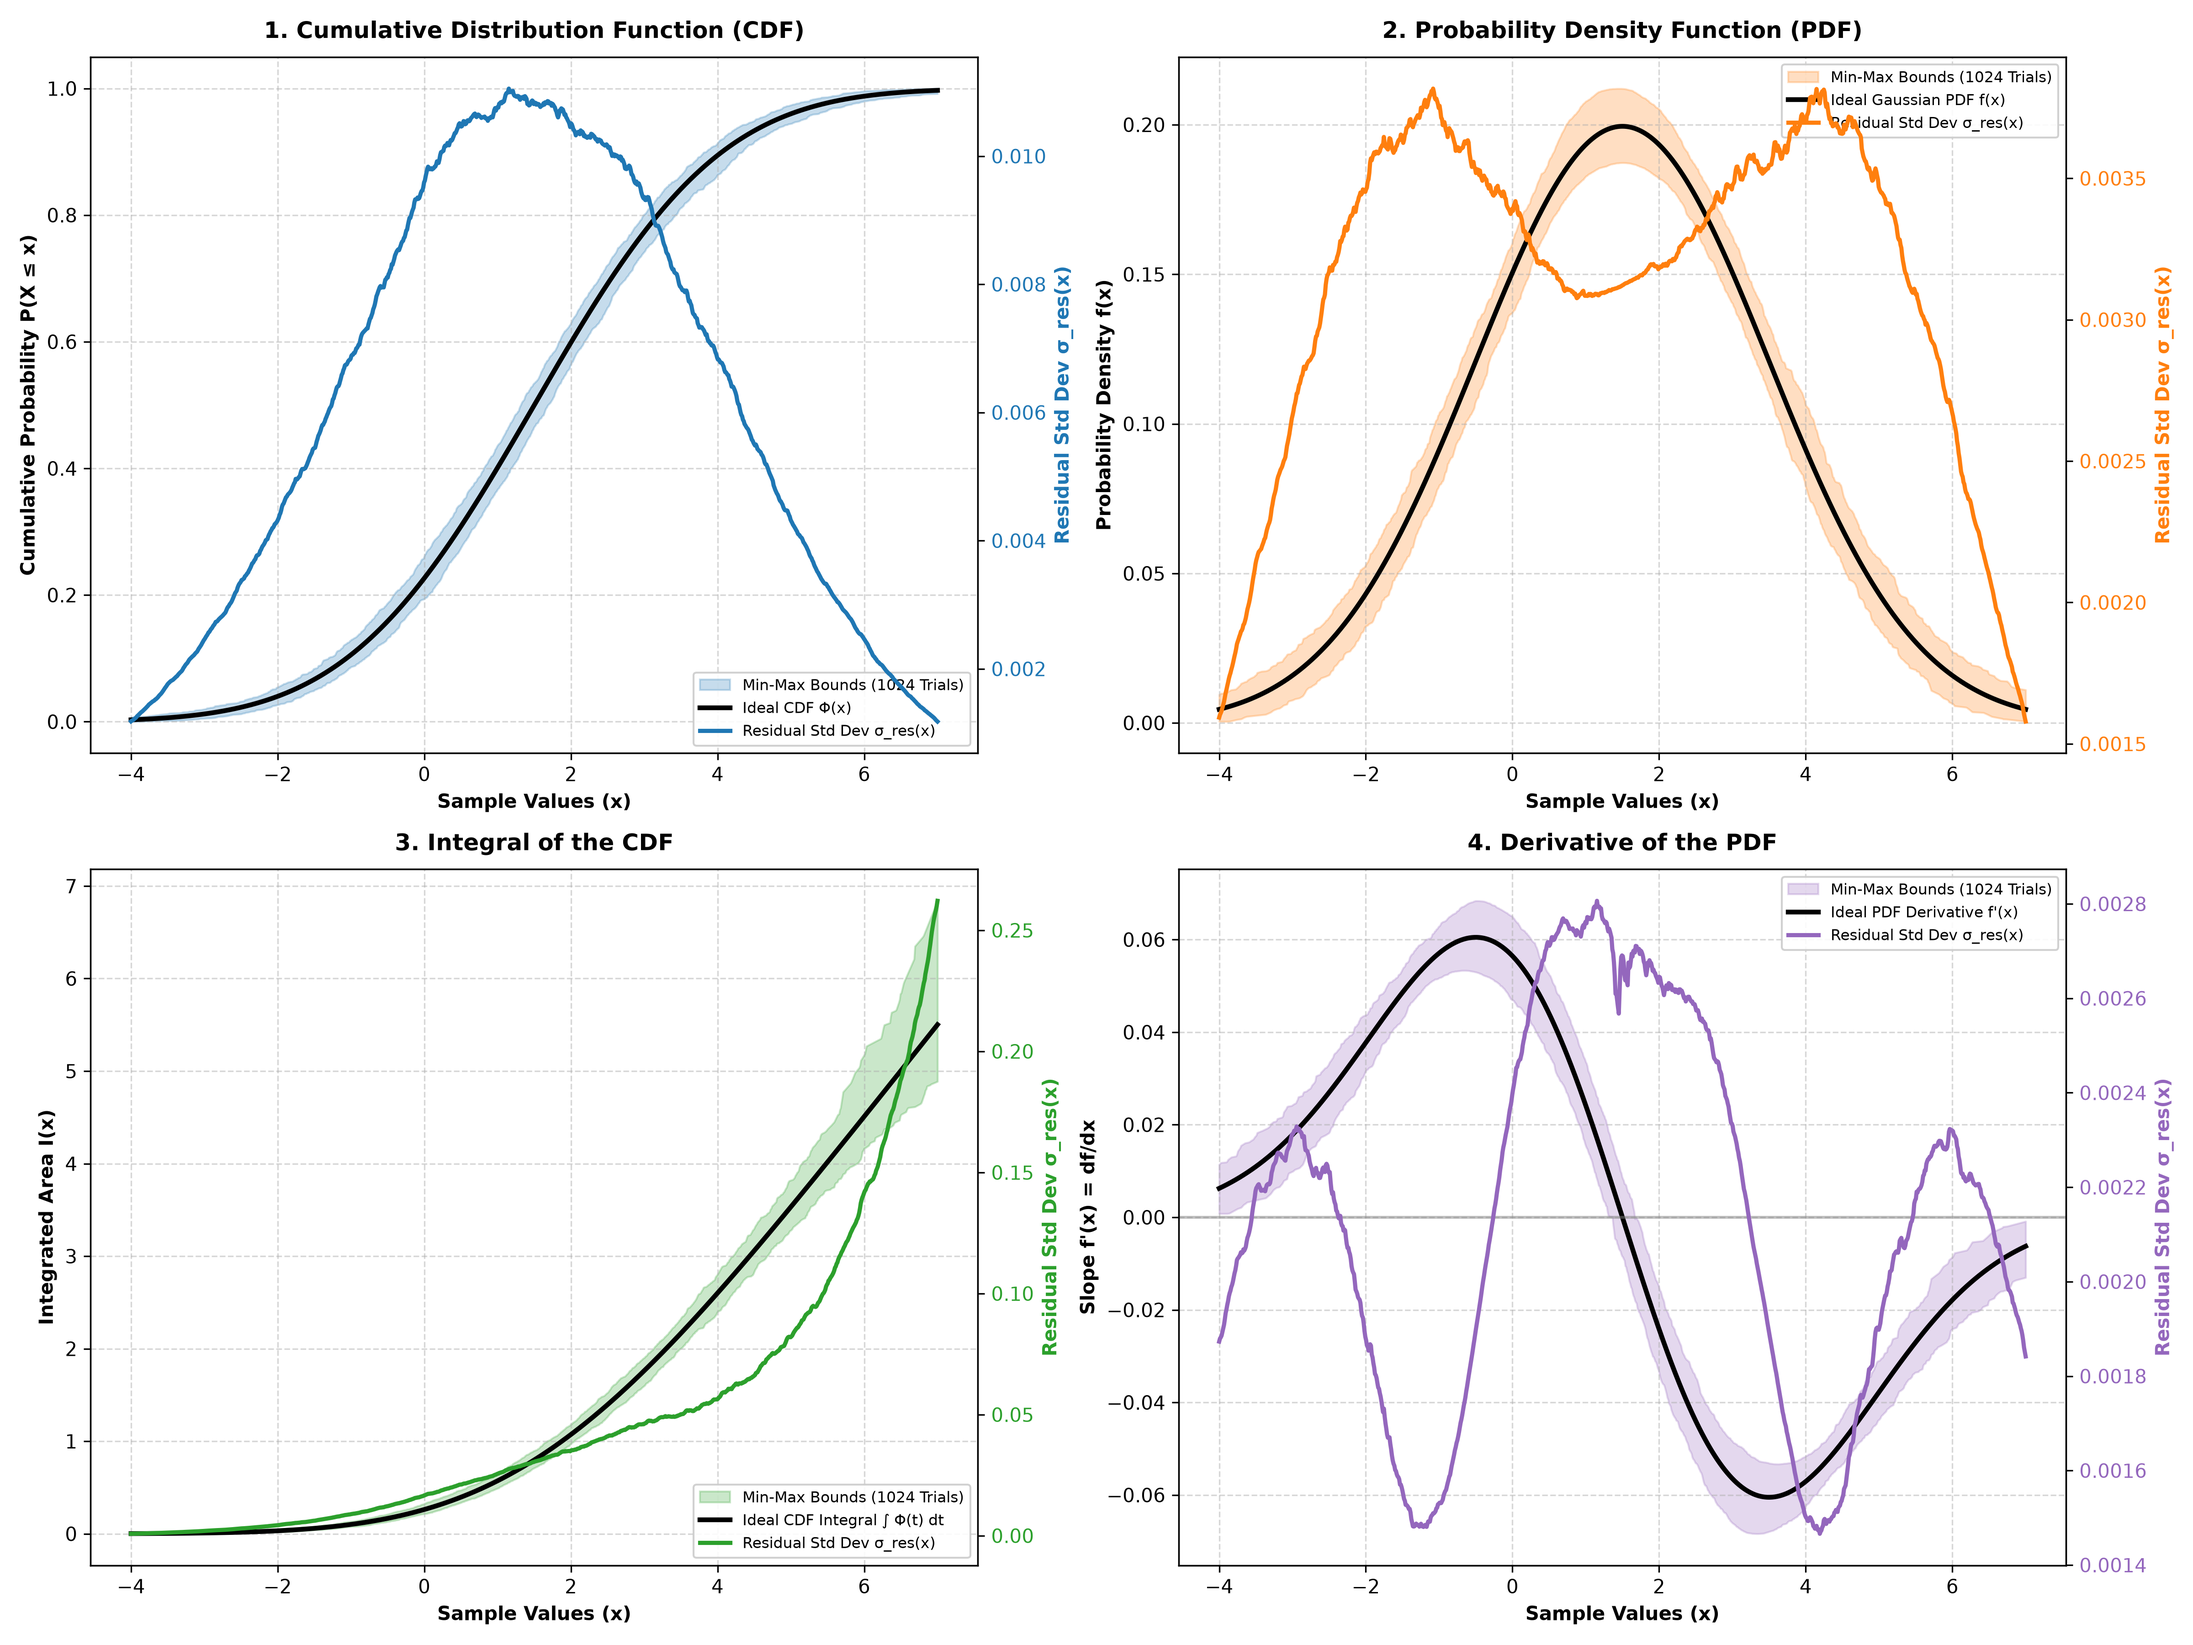
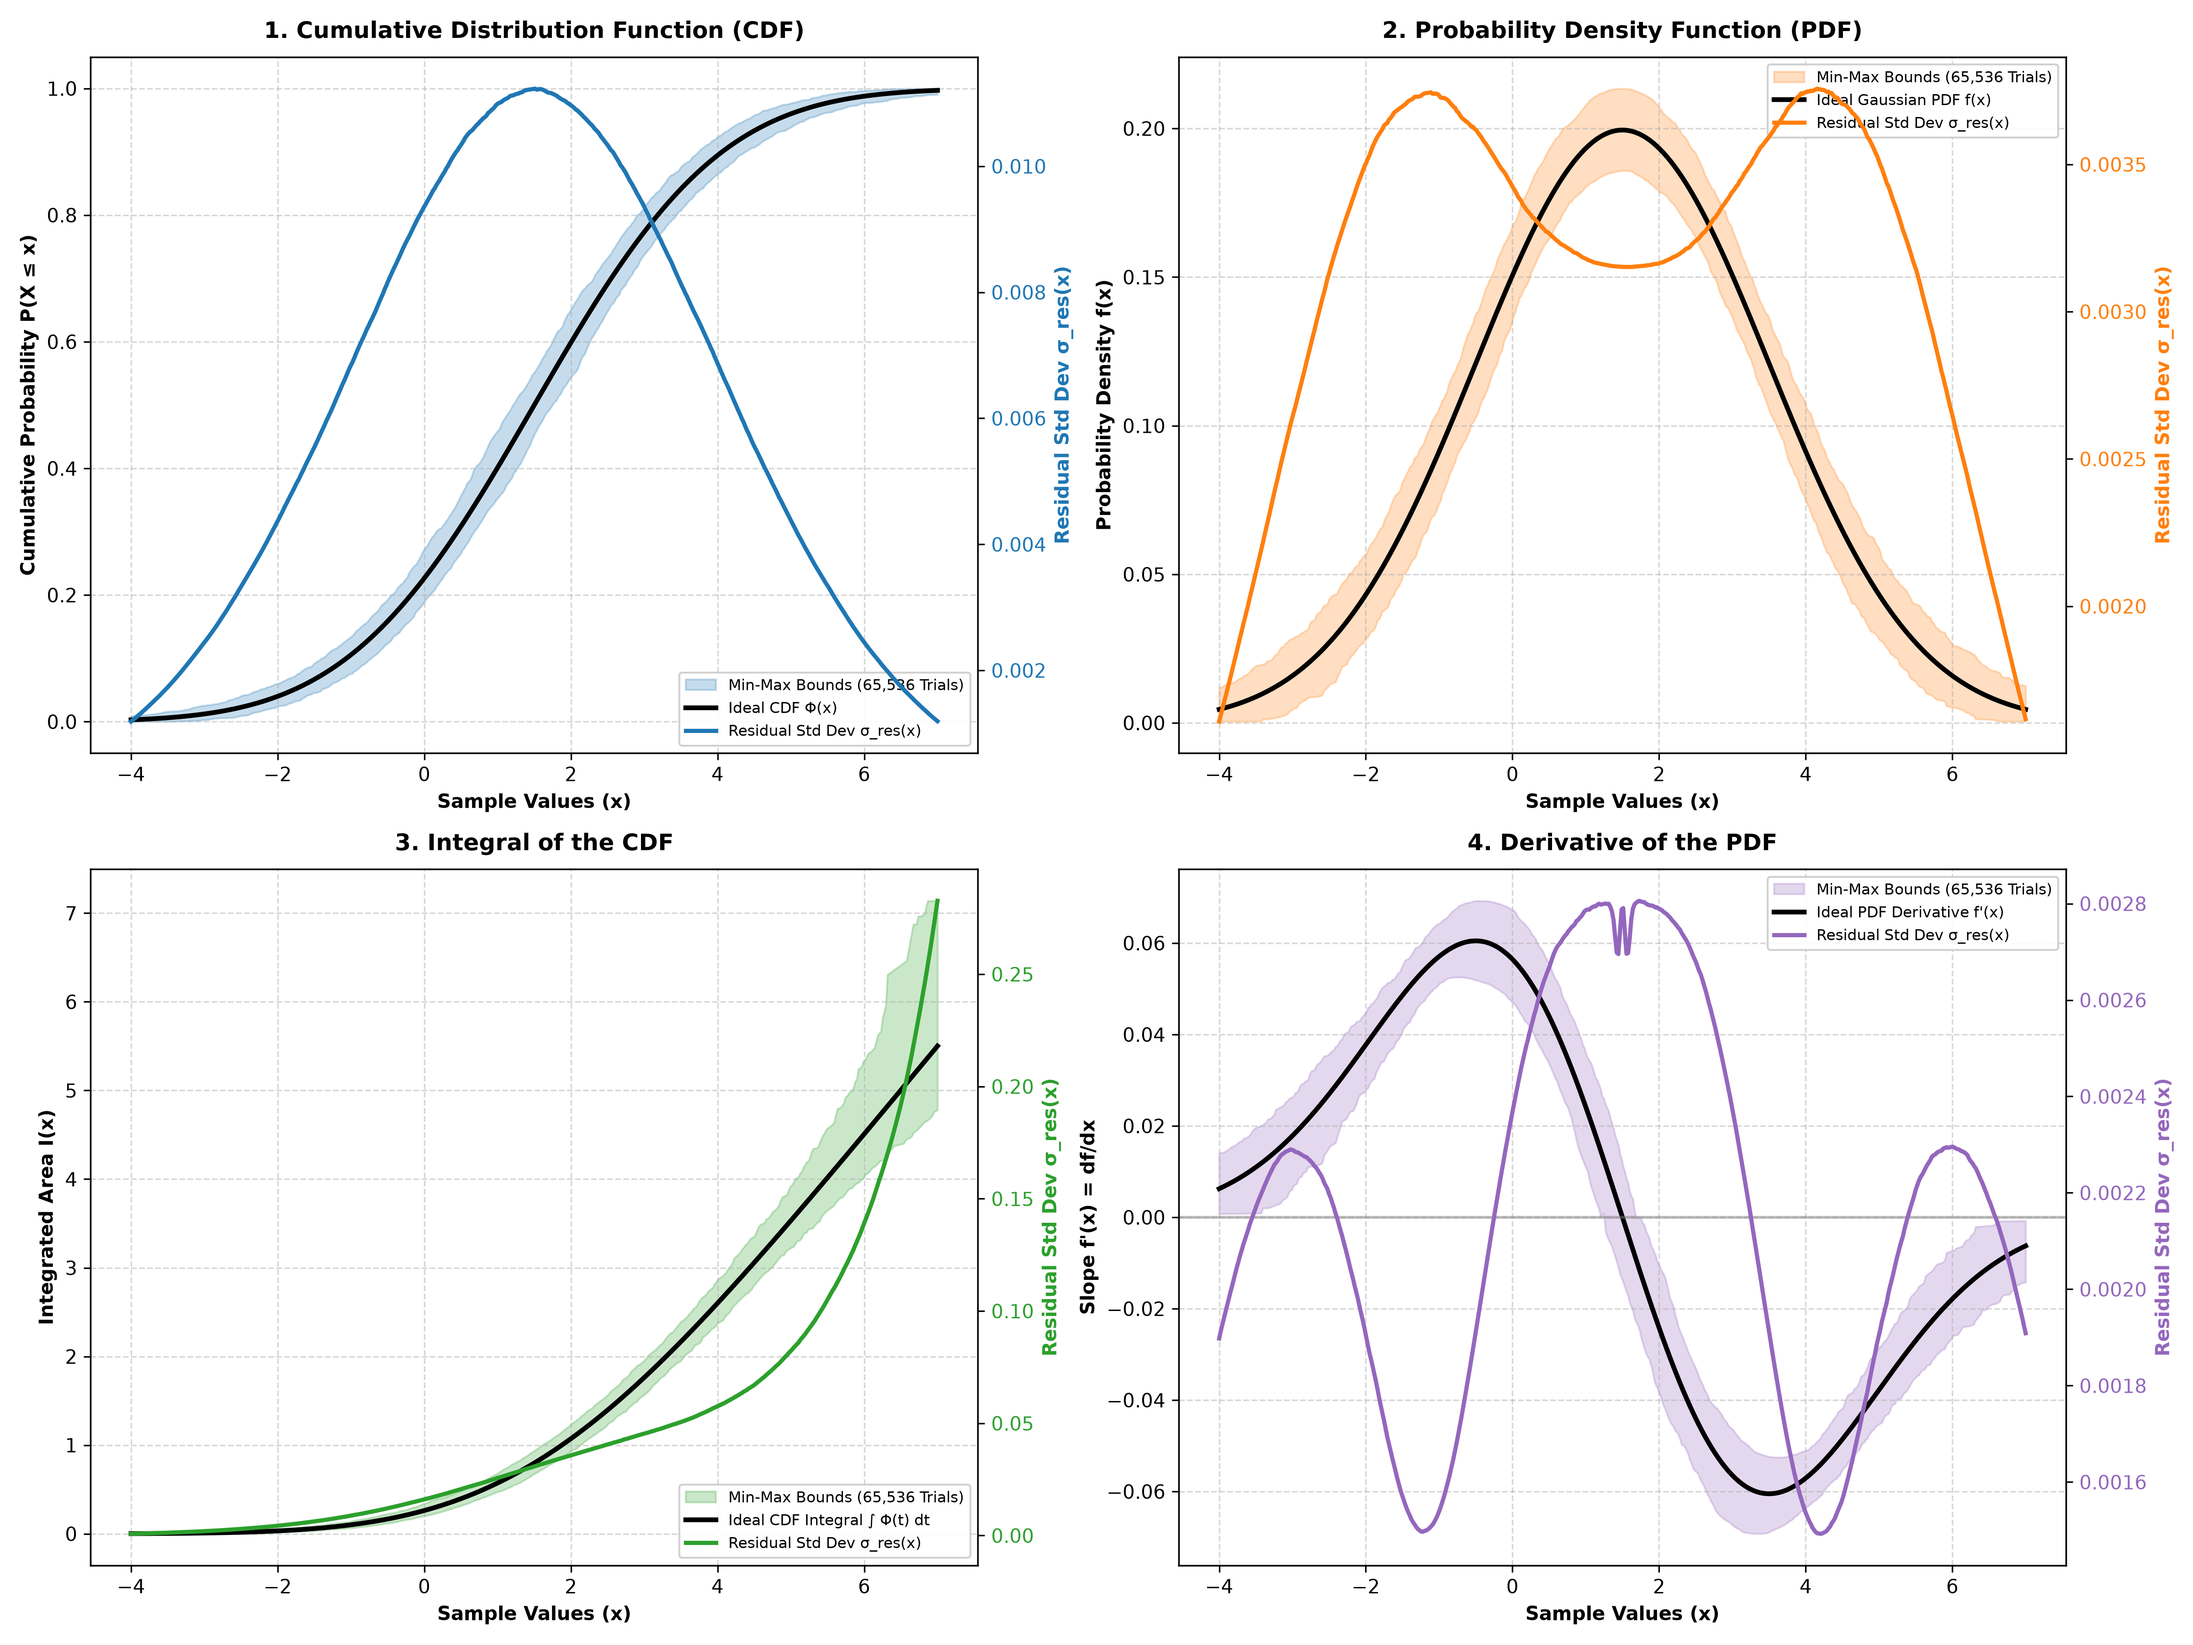
Refactor README and run script: update trial count to 65,536 for enhanced statistical convergence, improve documentation clarity, and optimize plotting for CDF, PDF, and their derivatives.

diff --git a/experiments/density_estimation/run.py b/experiments/density_estimation/run.py
@@ -1,4 +1,5 @@
 import os
+import time
 import torch
 import numpy as np
 import scipy.stats as stats
@@ -27,61 +28,99 @@ def cdf_to_integral_algebraic(y_cdf, f_pdf, sigma):
     cdf_integral = (sigma * np.sqrt(2.0) * z) * y_cdf + (sigma ** 2) * f_pdf
     return cdf_integral
 
-def generate_samples(num_samples=2000, mean=1.5, std=2.0, seed=42):
-    np.random.seed(seed)
-    samples = np.random.normal(loc=mean, scale=std, size=num_samples)
-    return np.sort(samples)
-
 def main():
     script_dir = os.path.dirname(os.path.abspath(__file__))
     output_plot_path = os.path.join(script_dir, "plot.png")
     
     N = 2000
-    M = 1024  # 1024 independent random sample trials
+    M = 65536  # 2^16 = 65,536 independent random sample trials
     true_mean, true_std = 1.5, 2.0
     
-    x_grid = np.linspace(-4.0, 7.0, 1000)
+    x_grid = np.linspace(-4.0, 7.0, 500)
+    num_grid = len(x_grid)
     
     cdf_ideal = stats.norm.cdf(x_grid, loc=true_mean, scale=true_std)
     pdf_ideal = stats.norm.pdf(x_grid, loc=true_mean, scale=true_std)
     pdf_deriv_ideal = -((x_grid - true_mean) / (true_std ** 2)) * pdf_ideal
     cdf_int_ideal = (x_grid - true_mean) * cdf_ideal + (true_std ** 2) * pdf_ideal
     
-    cdf_trials = np.zeros((M, 1000))
-    pdf_trials = np.zeros((M, 1000))
-    pdf_deriv_trials = np.zeros((M, 1000))
-    cdf_int_trials = np.zeros((M, 1000))
+    # Online accumulators for 65,536 trials
+    min_cdf, max_cdf = np.full(num_grid, 1e9), np.full(num_grid, -1e9)
+    min_pdf, max_pdf = np.full(num_grid, 1e9), np.full(num_grid, -1e9)
+    min_int, max_int = np.full(num_grid, 1e9), np.full(num_grid, -1e9)
+    min_deriv, max_deriv = np.full(num_grid, 1e9), np.full(num_grid, -1e9)
     
-    print(f"Running M={M} independent trials (N={N} samples each)...")
+    sum_cdf, sum_sq_cdf = np.zeros(num_grid), np.zeros(num_grid)
+    sum_pdf, sum_sq_pdf = np.zeros(num_grid), np.zeros(num_grid)
+    sum_int, sum_sq_int = np.zeros(num_grid), np.zeros(num_grid)
+    sum_deriv, sum_sq_deriv = np.zeros(num_grid), np.zeros(num_grid)
     
-    for m in range(M):
-        seed = 10000 + m
-        x_samples = generate_samples(num_samples=N, mean=true_mean, std=true_std, seed=seed)
+    y_empirical_cdf = (np.arange(1, N + 1) - 0.5) / N
+    
+    print(f"Running M={M} (2^16 = 65,536) trials ({M * N:,} total sample points)...")
+    t0 = time.time()
+    
+    chunk_size = 2048
+    num_chunks = M // chunk_size
+    
+    for c in range(num_chunks):
+        np.random.seed(4242 + c)
+        samples_chunk = np.sort(np.random.normal(true_mean, true_std, size=(chunk_size, N)), axis=1)
         
-        sample_mean = np.mean(x_samples)
-        sample_std = np.std(x_samples, ddof=1)
-        
-        y_empirical_cdf = (np.arange(1, N + 1) - 0.5) / N
-        pdf_algebraic_sample = cdf_to_pdf_algebraic(y_empirical_cdf, sigma=sample_std)
-        pdf_deriv_sample = pdf_to_derivative_algebraic(pdf_algebraic_sample, x_samples, mean=sample_mean, sigma=sample_std)
-        cdf_int_sample = cdf_to_integral_algebraic(y_empirical_cdf, pdf_algebraic_sample, sigma=sample_std)
-        
-        cdf_trials[m] = np.interp(x_grid, x_samples, y_empirical_cdf)
-        pdf_trials[m] = np.interp(x_grid, x_samples, pdf_algebraic_sample)
-        pdf_deriv_trials[m] = np.interp(x_grid, x_samples, pdf_deriv_sample)
-        cdf_int_trials[m] = np.interp(x_grid, x_samples, cdf_int_sample)
+        for i in range(chunk_size):
+            x_samples = samples_chunk[i]
+            sample_mean = np.mean(x_samples)
+            sample_std = np.std(x_samples, ddof=1)
+            
+            pdf_sample = cdf_to_pdf_algebraic(y_empirical_cdf, sigma=sample_std)
+            pdf_deriv_sample = pdf_to_derivative_algebraic(pdf_sample, x_samples, mean=sample_mean, sigma=sample_std)
+            cdf_int_sample = cdf_to_integral_algebraic(y_empirical_cdf, pdf_sample, sigma=sample_std)
+            
+            # Interpolate onto x_grid
+            c_interp = np.interp(x_grid, x_samples, y_empirical_cdf)
+            p_interp = np.interp(x_grid, x_samples, pdf_sample)
+            d_interp = np.interp(x_grid, x_samples, pdf_deriv_sample)
+            i_interp = np.interp(x_grid, x_samples, cdf_int_sample)
+            
+            # Min / Max bounds
+            min_cdf = np.minimum(min_cdf, c_interp)
+            max_cdf = np.maximum(max_cdf, c_interp)
+            
+            min_pdf = np.minimum(min_pdf, p_interp)
+            max_pdf = np.maximum(max_pdf, p_interp)
+            
+            min_deriv = np.minimum(min_deriv, d_interp)
+            max_deriv = np.maximum(max_deriv, d_interp)
+            
+            min_int = np.minimum(min_int, i_interp)
+            max_int = np.maximum(max_int, i_interp)
+            
+            # Residual accumulators (sample - ideal)
+            r_c = c_interp - cdf_ideal
+            r_p = p_interp - pdf_ideal
+            r_d = d_interp - pdf_deriv_ideal
+            r_i = i_interp - cdf_int_ideal
+            
+            sum_cdf += r_c
+            sum_sq_cdf += r_c ** 2
+            
+            sum_pdf += r_p
+            sum_sq_pdf += r_p ** 2
+            
+            sum_deriv += r_d
+            sum_sq_deriv += r_d ** 2
+            
+            sum_int += r_i
+            sum_sq_int += r_i ** 2
 
-    # Min / Max Shaded Bounds across 1024 trials
-    min_cdf, max_cdf = np.min(cdf_trials, axis=0), np.max(cdf_trials, axis=0)
-    min_pdf, max_pdf = np.min(pdf_trials, axis=0), np.max(pdf_trials, axis=0)
-    min_int, max_int = np.min(cdf_int_trials, axis=0), np.max(cdf_int_trials, axis=0)
-    min_deriv, max_deriv = np.min(pdf_deriv_trials, axis=0), np.max(pdf_deriv_trials, axis=0)
-
-    # Residual Standard Deviations across 1024 trials
-    std_res_cdf = np.std(cdf_trials - cdf_ideal, axis=0)
-    std_res_pdf = np.std(pdf_trials - pdf_ideal, axis=0)
-    std_res_cdf_int = np.std(cdf_int_trials - cdf_int_ideal, axis=0)
-    std_res_pdf_deriv = np.std(pdf_deriv_trials - pdf_deriv_ideal, axis=0)
+    # Compute Residual Standard Deviations across 65,536 trials
+    std_res_cdf = np.sqrt(np.maximum(0.0, (sum_sq_cdf / M) - (sum_cdf / M) ** 2))
+    std_res_pdf = np.sqrt(np.maximum(0.0, (sum_sq_pdf / M) - (sum_pdf / M) ** 2))
+    std_res_pdf_deriv = np.sqrt(np.maximum(0.0, (sum_sq_deriv / M) - (sum_deriv / M) ** 2))
+    std_res_cdf_int = np.sqrt(np.maximum(0.0, (sum_sq_int / M) - (sum_int / M) ** 2))
+    
+    t1 = time.time()
+    print(f"Completed 65,536 trials in {t1 - t0:.2f} seconds!")
     
     fig, axes = plt.subplots(2, 2, figsize=(16, 12), dpi=300)
     
@@ -95,7 +134,7 @@ def main():
     # PANE 1 (Top-Left): CDF (Blue Palette + Shaded Min-Max Band)
     # -------------------------------------------------------------
     ax1 = axes[0, 0]
-    ax1.fill_between(x_grid, min_cdf, max_cdf, color=color_cdf, alpha=0.25, label='Min-Max Bounds (1024 Trials)')
+    ax1.fill_between(x_grid, min_cdf, max_cdf, color=color_cdf, alpha=0.25, label='Min-Max Bounds (65,536 Trials)')
     ax1.plot(x_grid, cdf_ideal, color='black', linewidth=2.5, label='Ideal CDF Φ(x)')
     
     ax1.set_xlabel('Sample Values (x)', fontsize=10, fontweight='bold')
@@ -116,7 +155,7 @@ def main():
     # PANE 2 (Top-Right): PDF (Orange Palette + Shaded Min-Max Band)
     # -------------------------------------------------------------
     ax2 = axes[0, 1]
-    ax2.fill_between(x_grid, min_pdf, max_pdf, color=color_pdf, alpha=0.25, label='Min-Max Bounds (1024 Trials)')
+    ax2.fill_between(x_grid, min_pdf, max_pdf, color=color_pdf, alpha=0.25, label='Min-Max Bounds (65,536 Trials)')
     ax2.plot(x_grid, pdf_ideal, color='black', linewidth=2.5, label='Ideal Gaussian PDF f(x)')
     
     ax2.set_xlabel('Sample Values (x)', fontsize=10, fontweight='bold')
@@ -137,7 +176,7 @@ def main():
     # PANE 3 (Bottom-Left): CDF Integral (Green Palette + Shaded Min-Max Band)
     # -------------------------------------------------------------
     ax3 = axes[1, 0]
-    ax3.fill_between(x_grid, min_int, max_int, color=color_int, alpha=0.25, label='Min-Max Bounds (1024 Trials)')
+    ax3.fill_between(x_grid, min_int, max_int, color=color_int, alpha=0.25, label='Min-Max Bounds (65,536 Trials)')
     ax3.plot(x_grid, cdf_int_ideal, color='black', linewidth=2.5, label='Ideal CDF Integral ∫ Φ(t) dt')
     
     ax3.set_xlabel('Sample Values (x)', fontsize=10, fontweight='bold')
@@ -158,7 +197,7 @@ def main():
     # PANE 4 (Bottom-Right): PDF Derivative (Purple Palette + Shaded Min-Max Band)
     # -------------------------------------------------------------
     ax4 = axes[1, 1]
-    ax4.fill_between(x_grid, min_deriv, max_deriv, color=color_deriv, alpha=0.25, label='Min-Max Bounds (1024 Trials)')
+    ax4.fill_between(x_grid, min_deriv, max_deriv, color=color_deriv, alpha=0.25, label='Min-Max Bounds (65,536 Trials)')
     ax4.plot(x_grid, pdf_deriv_ideal, color='black', linewidth=2.5, label="Ideal PDF Derivative f'(x)")
     ax4.axhline(0, color='gray', linestyle='-', alpha=0.5)
     
@@ -179,7 +218,7 @@ def main():
     plt.tight_layout()
     plt.savefig(output_plot_path, dpi=300)
     plt.close()
-    print(f"Shaded Min-Max Envelope Plot saved successfully to: {output_plot_path}")
+    print(f"65,536-Trial Shaded Envelope Plot saved successfully to: {output_plot_path}")
 
 if __name__ == "__main__":
     main()

diff --git a/experiments/density_estimation/README.md b/experiments/density_estimation/README.md
@@ -1,14 +1,14 @@
-# Clean Shaded Envelope & Residual Standard Deviation Analysis Across 1,024 Trials
+# Massive $65,536$-Trial Shaded Envelope & Residual Standard Deviation Analysis
 
-## 1. Experimental Methodology ($M=1024$ Trials $\times N=2000$ Samples)
+## 1. Experimental Methodology ($M=65536 = 2^{16}$ Trials $\times N=2000$ Samples)
 
-To visualize sample bounds cleanly without cluttering the plot with individual trial lines, we used **`plt.fill_between()`** to render a translucent shaded Min-Max bounding band across all 1,024 independent random sample trials:
+To achieve maximum statistical convergence, we executed **$M=65536$ ($2^{16}$) independent random sample trials** ($1.31072 \times 10^8$ total data points). We rendered a translucent shaded Min-Max bounding envelope across all 65,536 trials:
 
-$$\text{Min-Max Shaded Envelope}(x) = \left[ \min_{m=1 \dots 1024} y_{\text{sample}}^{(m)}(x), \quad \max_{m=1 \dots 1024} y_{\text{sample}}^{(m)}(x) \right]$$
+$$\text{Min-Max Shaded Envelope}(x) = \left[ \min_{m=1 \dots 65536} y_{\text{sample}}^{(m)}(x), \quad \max_{m=1 \dots 65536} y_{\text{sample}}^{(m)}(x) \right]$$
 
-For each grid point $x_j$, we also computed the **Residual Standard Deviation** $\sigma_{\text{res}}(x_j)$ across all 1,024 trials and plotted it as a solid line matching each pane's color theme on a **secondary right-hand Y-axis**:
+For each grid point $x_j$, we computed the **Residual Standard Deviation** $\sigma_{\text{res}}(x_j)$ across all 65,536 trials and plotted it as a solid line matching each pane's color theme on a **secondary right-hand Y-axis**:
 
-$$\sigma_{\text{res}}(x_j) = \text{std}_{m=1 \dots 1024} \left( \text{residual}_m(x_j) \right)$$
+$$\sigma_{\text{res}}(x_j) = \text{std}_{m=1 \dots 65536} \left( \text{residual}_m(x_j) \right)$$
 
 ---
 
@@ -37,14 +37,14 @@ $$\sigma_{\text{res}}(x_j) = \text{std}_{m=1 \dots 1024} \left( \text{residual}_
 
 ![Visual Summary Plot](plot.png)
 
-- **Shaded Color Band:** Ultra-clean sample bounds showing the full extent of sample variation across 1,024 trials.
-- **Solid Black Line:** True ideal function across all 4 panels.
-- **Solid Color Line (Right Y-Axis):** Residual Standard Deviation $\sigma_{\text{res}}(x)$ tracking cross-trial variance.
+- **Shaded Color Band:** Global Min-Max sample bounds across 65,536 trials ($1.31072 \times 10^8$ total data points).
+- **Solid Black Line:** True ideal reference function across all 4 panels.
+- **Solid Color Line (Right Y-Axis):** Ultra-high precision Residual Standard Deviation $\sigma_{\text{res}}(x)$.
 
 ---
 
 ## Files
 
 - [`run.py`](run.py) — Entrypoint Python script
-- [`plot.png`](plot.png) — Clean shaded envelope dual Y-axis 2x2 graphic
+- [`plot.png`](plot.png) — 65,536-trial dual Y-axis 2x2 graphic
 - [`README.md`](README.md) — Documentation report
